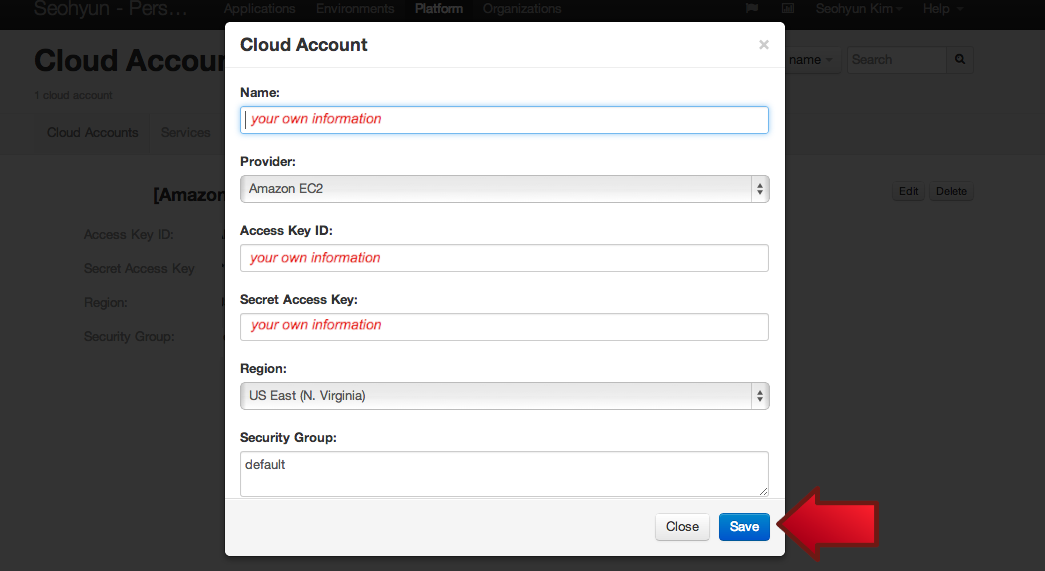
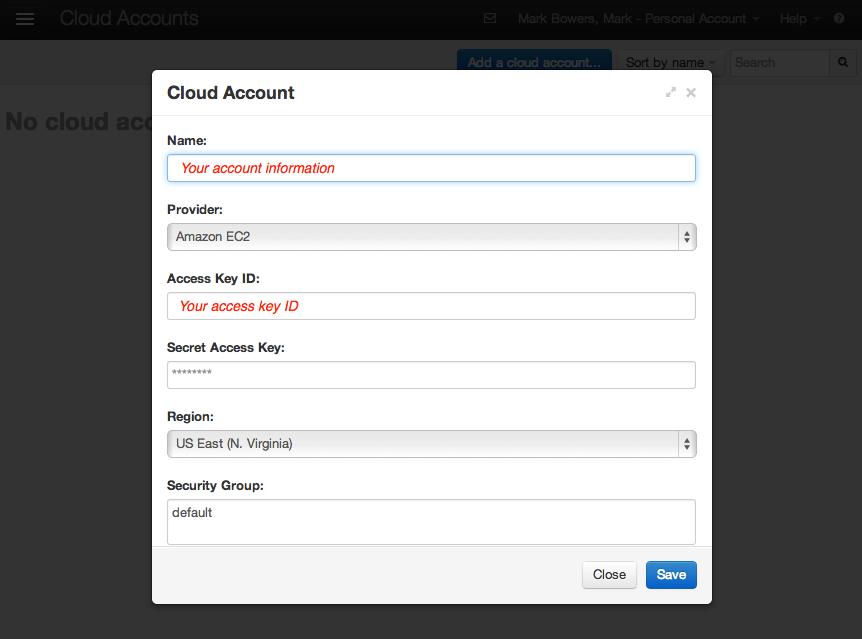
Doc updates based on Victoria's feedback

Changed region(s): [[0.0, 0.0, 1.0, 0.9825], [0.9049, 0.3275, 0.935, 0.3573]]

diff --git a/docs/step-2-qubell-setup-guide.md b/docs/step-2-qubell-setup-guide.md
@@ -1,0 +1,102 @@
+#### Previous Step: [Set up and Configure an Amazon Web Services (AWS) Account](step-1-amazon-setup-guide.md)
+
+#Step 2. Set up a Qubell Account
+
+## Introduction to Qubell Platform Concepts
+
+Before proceeding, let's review application deployment in Qubell. **_Qubell is designed to simplify the deployment of complex distributed applications for development, testing and production._** Applications are deployed into an environment (e.g. dev, QA or production), where various environments may operate on different clouds, reside in different datacenters, and use different services. Once the environment has been set up, Qubell ensures that applications can be launched into any compatible environment. Compatibility between an application and an environment means that if the application requires a certain service, the environment must have a service available for the application. Qubell validates the compatibility of the application and environment at launch. Services come in three types:
+  
+- **Cloud Accounts** - Special service types reserved for public cloud accounts (e.g. Amazon EC2 or Rackspace). If your application expects a cloud, it will not be deployed into an environment that doesn't have one.
+- **Markers** - Another special service type that indicates whether a service is present in the environment. For example, "Mainframe connection" might be a marker that signals the availability of the mainframe end-point in a particular environment. 
+- **Services** - Anything from a pool of VMs to a database with customer records. We will be using a service called "**Secure Vault**". **Secure Vault** is an encrypted store that holds your private information, including Amazon credentials and SSH keys. Applications can safely store, retrieve and use secret data. 
+
+A platform is a central repository of definitions of services available across all environments. The lifecycle of a service starts by being added to the platform, then enabled in environments as needed. Besides different services, environments may have properties and policies. Both properties and policies look like key-value pairs defined for each environment, but they are used for the following different purposes:
+  
+- **Properties** - Used by Qubell to store the parameters necessary to complete application deployment, configuration and management. For example, `db_connection_string = jdbc://somewhere` is a parameter needed by the application to resolve the location of the database driver in this particular environment. We will use properties to pass the location of files stored on S3 between the web store and the analytic engine.
+- **Policies** - These overwrite the values of parameters defined by the application. Different environments may impose different rules on the application. For example, while "test" environment may be configured to offer a choice of Ubuntu or CentOS for an operating system, the "production" environment may allow only RHEL. We are going to define a few policies related to the cloud account. 
+
+Before an application can be launched, there must be at least one environment set up, and that environment must have all services required by the application. Now, let's continue with configuring our application deployment environment.  
+
+## 1. Sign up for Qubell
+To sign up for Qubell, navigate to [qubell.com](http://qubell.com/). Select the "**Sign Up**" link and create an account.
+
+![Sign up](images/sign-up.png)
+
+Note that the following services come pre-installed with Qubell:
+
+* **Secure Vault 2.0** - The default credentials service
+* **Workflow Service** - The default workflow service
+
+These services are accessible from **Applications > System**.
+
+![Default Services](images/default-services.png)
+
+## 2. Add Your AWS Account Information to the Qubell Platform
+Once you create your Qubell account, you need to add your AWS account information to the platform. You can obtain your Amazon secret and access keys by following Amazon's [Getting Your Access Key ID and Secret Access Key](http://docs.aws.amazon.com/AWSSimpleQueueService/latest/SQSGettingStartedGuide/AWSCredentials.html) instructions. Then, go to Qubell and click the menu icon in the upper left corner of the screen. Select **Cloud Accounts**. 
+
+![Add cloud](images/qubell-add-cloud-account-1.png)
+
+Select the "**Add a cloud account**" button. 
+
+![Add cloud](images/qubell-add-cloud-account-2.png)
+
+Specify your account name, provider (select **Amazon EC2**), AWS credentials, and security group, and select the "**Save**" button.
+
+![Cloud info](images/qubell-cloud-info.png)
+
+## 3. Generate and Store SSH Keys
+SSH uses public-key cryptography to authenticate the remote computer and allow it to authenticate the user (without the need for a password). SSH keys always come in pairs (private and public). The public key can be distributed with any SSH server, while the private key is to be safely guarded by the owner. The key pair authenticates the user by verifying that the public and private keys match. 
+
+**Secure Vault 2.0**, Qubell's default credentials service, is pre-configured with an SSH key pair. To access the key pair, navigate to **Applications > System**.
+
+![Default Services](images/default-services.png)
+
+Select the **Secure Vault 2.0** link, and then click the **Default credentials service** link.
+
+![Default credentials service](images/default-cred-service.png)
+
+Lastly, select **SSH keys** from the sub-menu.
+
+![SSH keys](images/ssh-keys.png)
+
+Here, you can download the pre-configured public and private keys. To upload a different SSH key pair, click the **Upload** button. You can also create a new key pair by clicking the **Regenerate** button.
+
+##4. Set up Environment with Cloud Account and Properties
+
+Qubell comes pre-installed with a **default** environment. To view this environment, click the menu icon in the upper left corner of the screen and select **Environments**.
+
+![Environment menu](images/menu-environments.png)
+
+Click the **default** link or the **edit** button to view the details associated with this environment.
+
+![Environment details](images/environment-details.png)
+
+To associate a cloud account with this environment, select the **Set a Cloud Account** button. Choose your cloud account from the list (recall we added it in Step 2) and select **Save**.
+
+![Set cloud account](images/set-cloud-account.png)
+
+To add environment properties, click the "**Add a property**" button. In the pop-up window, you will need to add the *property name*, *property type* (for all properties in ATG Starter Kit, the type is "string") and the *property value.* Add all properties shown below (be sure to click the **Add** button for each).
+
+![Add property](images/environment-property.png)
+
+- **Password properties** *(Values should be 8 symbols long and contain at least 1 digit and 1 capital letter)*
+  + `atg_admin` - Password for ATG BCC admin
+  + `atg_db_production` - Password for production db user
+  + `atg_db_publishing` - Password for publishing db user
+  + `weblogic` - Password for Weblogic domain
+  + `oracle_db` - Password for Oracle DB 'system' user
+- **Binary URLs properties** *(To obtain binaries, please refer to the [Getting Artifacts Guide](get-artifacts.md))*
+  + `atg_binary_url` - ATG Platform (.bin)
+  + `atg_store_url` - ATG Commerce Reference Store (.bin)
+  + `cas_url` - Endeca Content Acquisition System Documentation (.sh)
+  + `jrockit_binary_url` - JRockit (.bin)
+  + `mdex_url` - Endeca MDEX (.sh)
+  + `oracle_db_xe_zip` - Oracle Database XE 11g (.zip)
+  + `platform_services_binary_url` - Endeca Platform Services (.sh)
+  + `presentation_api_url` - Endeca Presentation API (.tgz)
+  + `taf_url` - Endeca Tools and Frameworks (.sh)
+  + `weblogic_binary_url` - Weblogic 10.3.6 (.jar)
+- **Git repository URL property** `(optional)`
+  + `git_repo` (note that if your repository isn't public, you must the auth username and password directly in your URL, e.g. https://username:password@path/to/git/repo.git)
+
+#### Next step: [Get the ATG Starter Kit](step-3-get-starter-kit.md)

diff --git a/docs/custom-crs.md b/docs/custom-crs.md
@@ -1,52 +1,51 @@
-#### Previous Step: [Launch the Application](step-4-launch-guide.md)
+#### Back to [Readme](../readme.md)
 
 #(Optional) Modify and Update Custom CRS with ATG Starter Kit
 
 ##Steps
 
-1. Create a git repo based on the folder "CommerceReferenceStore/Store," which is located in the ATG root directory ($DYNAMO_ROOT) of the launched instance.
+1. Create a git repo based on the folder `CommerceReferenceStore/Store`, which is located in the ATG root directory `$DYNAMO_ROOT` of the launched instance.
 2. To create a module and add it to the CRS, perform the following steps:
 
 	A. Create a new module folder in root of git repo.
 	
-	B. Create a META-INF/MANIFEST.MF file describing the module similarly to the ATG module manifest (see FAQ 1).
+	B. Create a `META-INF/MANIFEST.MF` file describing the module similarly to the ATG module manifest (see [FAQ 1](#faq1)).
 	
-	C. Create src/Java and src/config (see FAQ 2) folders in them module's root. All code must be in src/Java folder; however, it doesn't need to be compiled (see FAQ 1).
+	C. Create `src/Java` and `src/config` (see [FAQ 2](#faq2)) folders in them module's root. All code must be in the `src/Java` folder; however, it doesn't need to be compiled (see [FAQ 1](#faq1)).
 	
-	D. Create file build.xml in module's root folder (see Appendix A).
+	D. Create the file `build.xml` in the module's root folder (see [Appendix A](#appendixa)).
 	
-	E. Create file build.properties in module's root folder (see Appendix B and FAQ 1).
+	E. Create the file `build.properties` in the module's root folder (see [Appendix B](#appendixb) and [FAQ 1](#faq1)).
 	
-	F. Add to modules.build.order of build.properties (in root of git repo) the path to your module's build.xml (e.g. modules.build.order=...,CUSTOM_MODULE_PATH/build.xml).
+	F. Add the path to your module's `build.xml` file (e.g. `modules.build.order=...,CUSTOM_MODULE_PATH/build.xml`) to `modules.build.order` within `build.properties` (in your git repo's root).
 	
-	G. Add your module to ATG-Required of Storefront/META-INF/MANIFEST.MF to include it in ear assembly (e.g., ATG-Required: ... Store.CUSTOM_MODULE_NAME).
+	G. Add your module to `ATG-Required` of `Storefront/META-INF/MANIFEST.MF` to include it in the EAR assembly (e.g., `ATG-Required: ... Store.CUSTOM_MODULE_NAME`).
 	
-	H. To generate JavaDoc for your module, add the following to the build.xml file (in root of git repo):
-	
-		<pathelement path="${basedir}/CUSTOM_MODULE_PATH/${relative.src.dir}"/> to <path id="javadoc.sourcepath">
+	H. To generate JavaDoc for your module, add `<pathelement path="${basedir}/CUSTOM_MODULE_PATH/${relative.src.dir}"/>` to `<path id="javadoc.sourcepath">` in the `build.xml` file (in your git repo's root):
 	
 3. Update the application instance.
 
 ##FAQ
+<a name="faq1"></a>
+1. Why is the existence of `ATG-Class-Path` (with at least one jar) mandatory in the module's manifest? 
 
-1. Why is the existence of ATG-Class-Path (with at least one jar) mandatory in the module's manifest? 
+	When we tried to deploy an instance without an empty jar added to `ATG-Class-Path` (e.g. `ATG-Class-Path: lib/classes.jar`, where `classes.jar` is an empty archive), Nucleus didn't create the components. The same problem occurs in the `build.properties` file of the module with property `classpath`. If it isn't specified or doesn't point to at least an empty jar, then the components will not be created. All the instance's sources are compiled from `src/Java`, so `ATG-Class-Path` and your own `compiling/packaging` of the code are redundant.
+<a name="faq2"></a>
+2. What is the purpose of folder `src/config` for configuration files? 
 
-	When we tried to deploy an instance without an empty jar added to ATG-Class-Path (e.g. ATG-Class-Path: lib/classes.jar, where classes.jar is empty archive), Nucleus didn't create our components. The same problem occurs in the build.properties file of module with property classpath. If it isn't specified or doesn't point to at least an empty jar, then the components will not be created. All the instance's sources are compiled from src/Java, so ATG-Class-Path and own compiling/packaging of code are redundant.
-
-2. What is the purpose of folder src/config for configuration files? 
-
-	The properties of components are loaded by Nucleus from ATG-Config-Path.
-
+	The properties of components are loaded by Nucleus from `ATG-Config-Path`.
+<a name="appendixa"></a>
 ##Appendix A. build.xml example
 
 	<project name="CUSTOM_MODULE_NAME" default="all" basedir=".">
 		<property name="global.dir" value="${basedir}/.."/>
 		<import file="${global.dir}/buildtools/common.xml"/>
 	</project>
-
+<a name="appendixb"></a>
 ##Appendix B. build.properties
 
-	# @version $Id: //hosting-blueprint/B2CBlueprint/version/10.2/Recommendations/build-base.properties#1 $$Change: 788278 $
+	# @version $Id: //hosting-blueprint/B2CBlueprint/version/10.2/Recommendations/build-base.properties#1 
+	$$Change: 788278 $
 	# ---------------------------------------------------------------------------------
 	# Note: The property global.dir is specified in this module's build.xml.  Make sure
 	# this is set properly, especially if you are building a nested module structure
@@ -71,6 +70,6 @@
 
 ##Appendix C. Nomenclature
 
-	CUSTOM_MODULE_NAME - name of your module
-	CUSTOM_MODULE_PATH - relative path to your module starting from git repo root
+* `CUSTOM_MODULE_NAME` - your module's name
+* `CUSTOM_MODULE_PATH` - relative path to your module starting from the git repo's root
 

diff --git a/docs/step-4-launch-guide.md b/docs/step-4-launch-guide.md
@@ -1,14 +1,18 @@
-#### Previous Step: [Set up a Qubell Account](step-3-qubell-setup-guide.md)
+#### Previous Step: [Get the ATG Starter Kit](step-3-get-starter-kit.md)
 
 #Step 4. Launch the Application
 
 ## Launching ATG Starter Kit
 
-To launch ATG Starter Kit, navigate to the "**Application**" tab, select the **Launch** drop-down button and choose **default**.
+To launch ATG Starter Kit, navigate to **Applications > Modules**.
+
+![Installed module](images/installed-module.png)
+
+Select the **Launch** drop-down button and choose **default** to launch the instance or **Advanced Launch...** to change the default instance parameters (e.g. image AMI, instance size, cookbooks location on S3, and destroy time, which should be at least 2 hours).
 
 ![Launch Starter Kit 1](images/launch-sk-1.png)
 
-Within the launch setup dialog window, you can change your default instance parameters, including image AMI, instance size, cookbooks location on S3 and destroy time (which should be at least 2 hours). Select the **Launch** button. The instance will take about an hour to reach a running state.
+Select the **Launch** button. The instance will take about an hour to reach a running state.
 
 ![Starter Kit Advanced Launch](images/launch-advanced-launch.png)
 
@@ -36,4 +40,6 @@ Your search results will appear shortly. For custom search results, use left sel
 
 **IMPORTANT: Set the git_repo env property first**
 
-To redeploy CRS from customs sources, go to your Git repository, select the "**Update Reference Store**" triangle button and choose "Advanced". Use *master* as the default branch (or specify another branch or revision) and select "**Execute**." The redeployment process takes about 15 minutes.
+To redeploy CRS from customs sources, go to your Git repository, select **Update Reference Store > Advanced**. Use *master* as the default branch (or specify another branch or revision) and select "**Execute**." The redeployment process takes about 15 minutes.
+
+#### [Back to Readme](../readme.md)

diff --git a/docs/step-1-amazon-setup-guide.md b/docs/step-1-amazon-setup-guide.md
@@ -1,8 +1,8 @@
-#### Previous Step: [Obtain the ATG Starter Kit](step-1-get-starter-kit.md)
+#### [Back to Readme](../readme.md)
 
-#Step 2. Setup your Amazon Web Services (AWS) Account
+#Step 1. Setup your Amazon Web Services (AWS) Account
 
-Since you will be deploying the sample web store and analytics on Amazon Cloud, you must have an AWS account. The instructions below will walk you through configuring your AWS account's security group to allow traffic to your applications, and adding the Amazon account to your Qubell portal. 
+Since you will be deploying the sample web store and analytics on Amazon Cloud, you must have an AWS account. The instructions below will walk you through configuring your AWS account's security group to allow traffic to your applications. 
 
 First, **sign up for an Amazon EC2 account (one that supports EC2 nodes and S3).** If you don't have an AWS account, you can create one by navigating [here](http://aws.amazon.com/account/).
 
@@ -39,4 +39,4 @@ Once you have added all rules, select the "**Apply Rule Changes**" button. The s
 If you need additional help, please refer to the [Amazon portal](http://docs.aws.amazon.com/AWSEC2/latest/UserGuide/using-network-security.html#adding-security-group-rule). 
 
 
-#### Next step: [Set up a Qubell Account](step-3-qubell-setup-guide.md)
+#### Next step: [Set up a Qubell Account](step-2-qubell-setup-guide.md)

diff --git a/README.md b/README.md
@@ -10,6 +10,8 @@
 * [Setup](#setup)
 	* [Step-by-step Setup Guide](#step-by-step-setup)
 * [Advanced Topics](#advanced-topics)
+	* [Add a Custom Module to CRS](docs/custom-crs.md)
+	* [Replace Amazon EC2 cloud with Backspace](docs/replace-ec2.md)
 * [Known Issues](#issues)
 
 <a name="getting-started"></a>
@@ -90,9 +92,9 @@ Please refer to the steps below for getting set up.
 
 <a name="step-by-step-setup"></a>
 ### Step-by-step Setup Guide
-- **[Step 1. Obtain the ATG Starter Kit](docs/step-1-get-starter-kit.md)**
-- **[Step 2. Set up and Configure an Amazon Web Services (AWS) Account](docs/step-2-amazon-setup-guide.md)**
-- **[Step 3. Set up a Qubell Account](docs/step-3-qubell-setup-guide.md)**
+- **[Step 1. Set up and Configure an Amazon Web Services (AWS) Account](docs/step-1-amazon-setup-guide.md)**
+- **[Step 2. Set up a Qubell Account](docs/step-2-qubell-setup-guide.md)**
+- **[Step 3. Obtain the ATG Starter Kit](docs/step-3-get-starter-kit.md)**
 - **[Step 4. Launch the Application](docs/step-4-launch-guide.md)**
 
 <a name="advanced-topics"></a>

diff --git a/docs/step-3-get-starter-kit.md b/docs/step-3-get-starter-kit.md
@@ -1,0 +1,18 @@
+#### Previous Step: [Set up a Qubell Account](step-2-qubell-setup-guide.md)
+
+Step 3. Get the ATG Starter Kit
+===========================
+
+To obtain the ATG Starter Kit,navigate to [http://qubell.com/solutions/oracle-atg-sandbox/](http://qubell.com/solutions/oracle-atg-sandbox/) and select the **Get It Now** button.
+
+![Get it now](images/get-it-now.png)
+
+You will be prompted to confirm the installation within Qubell. Click the **Add** button to continue.
+
+![Confirm installation](images/install-atg.png)
+
+To confirm the installation, navigate to **Applications > Modules**.
+
+![Installed module](images/installed-module.png)
+
+#### Next step: [Launch the Application](step-4-launch-guide.md)
